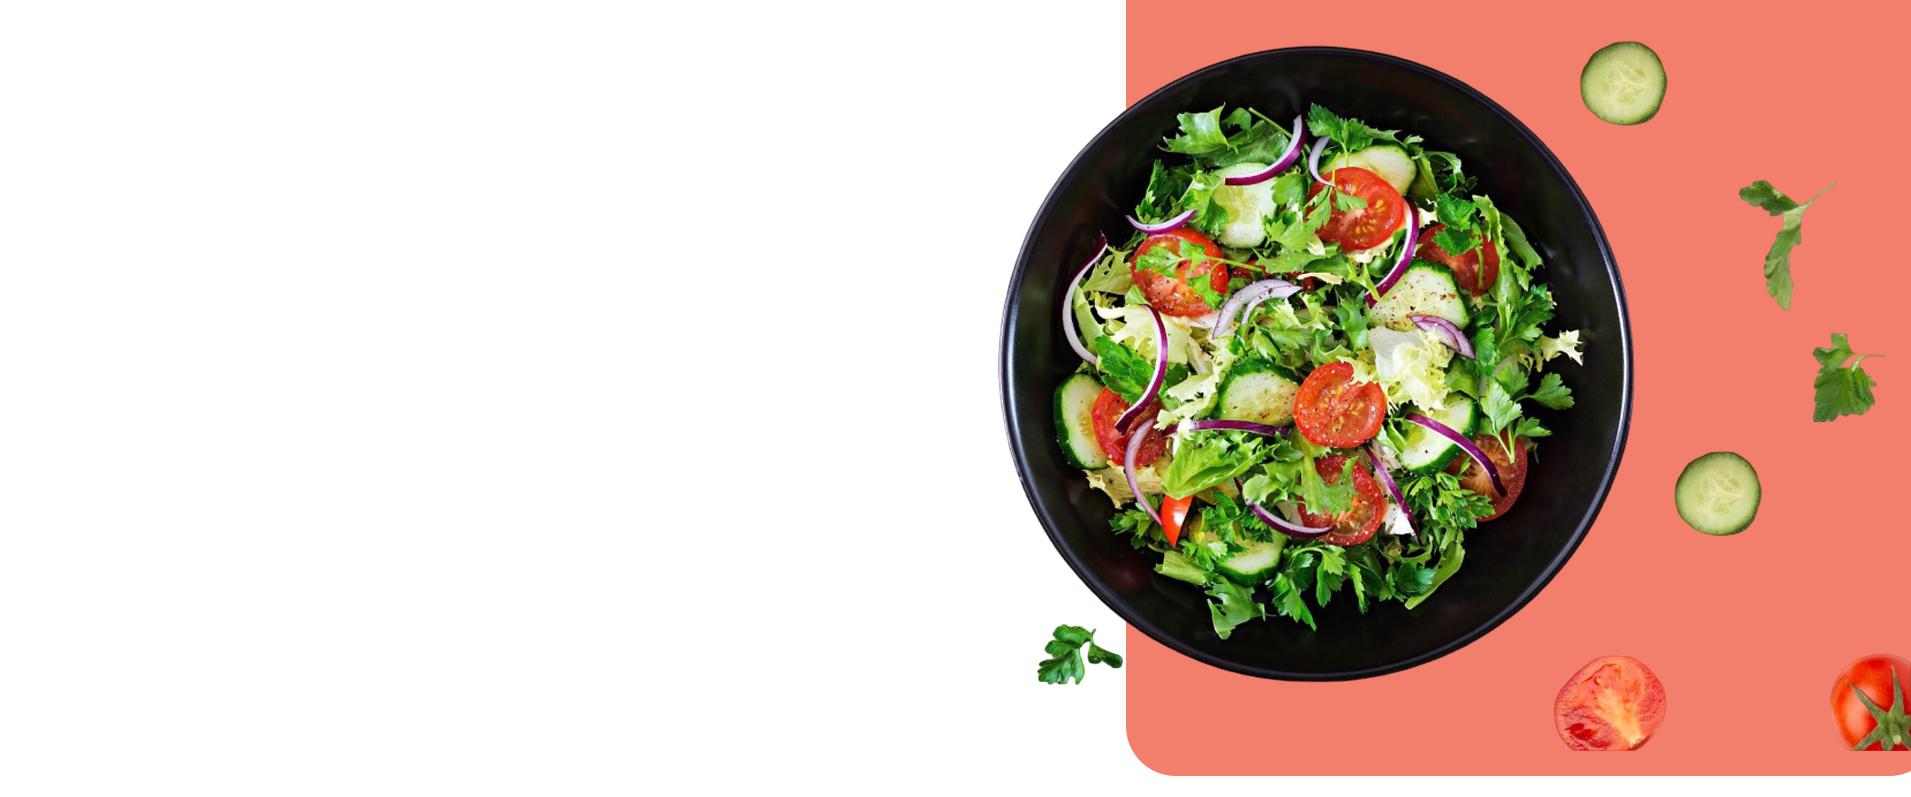
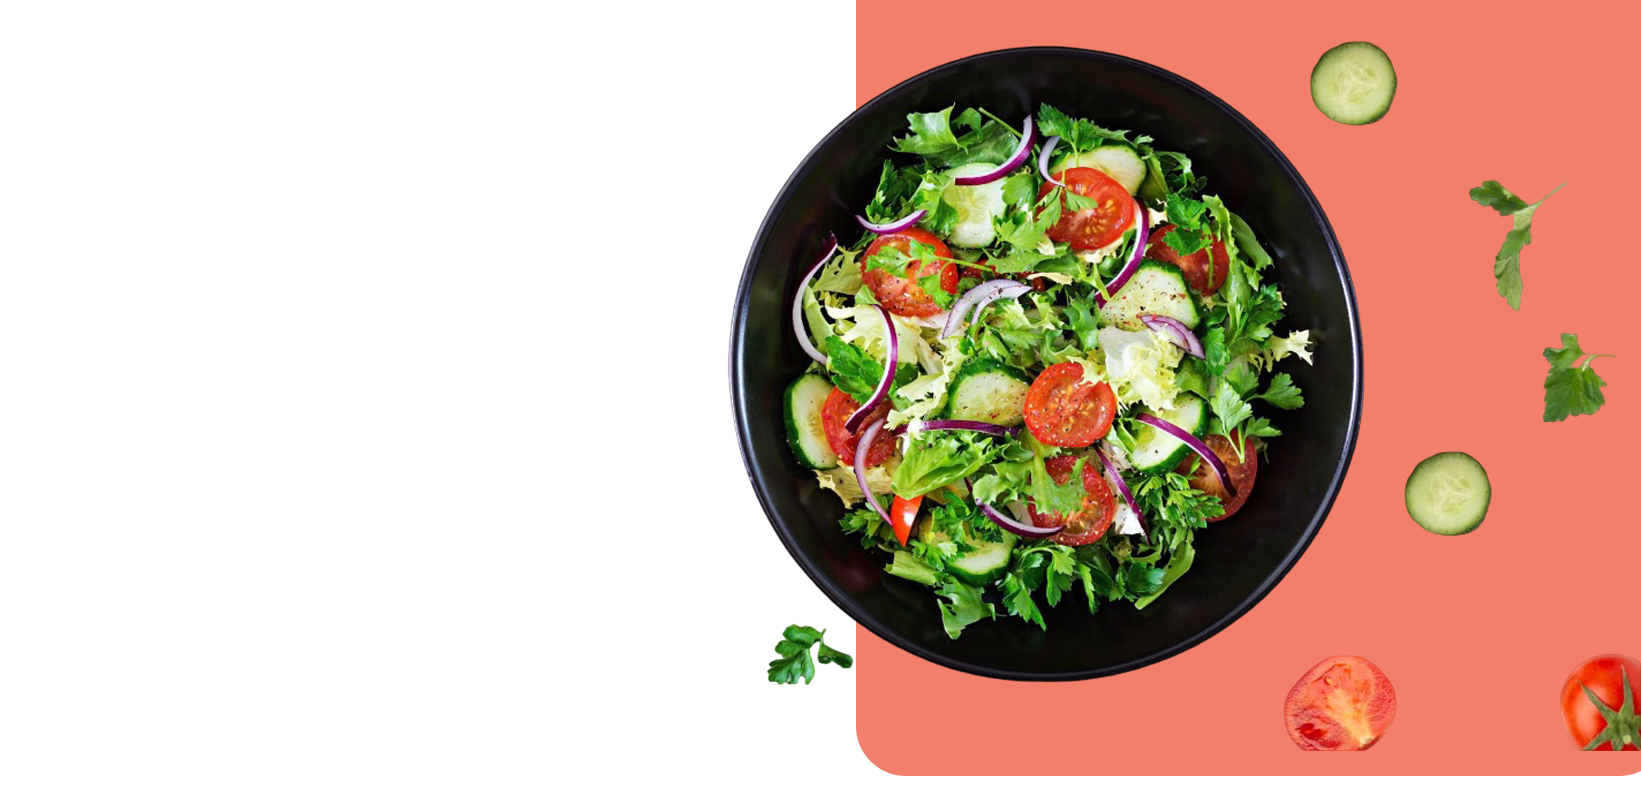
img mobile y fix page

diff --git a/src/app/page.js b/src/app/page.js
@@ -7,9 +7,9 @@ import Footer from "@/components/Footer";
 import CarrotLoader from "@/components/CarrotLoader";
 export default function Home() {
   return (
-    <div className="min-h-screen"> {/* Esto asegura que el contenedor principal ocupe todo el alto de la pantalla */}
-      <main className="flex flex-col gap-[32px] row-start-2 items-center sm:items-start">
+    <div className="min-h-screen overflow-x-hidden"> {/* Esto asegura que el contenedor principal ocupe todo el alto de la pantalla */}
         <NavbarLanding />
+        <main className="pt-16 flex flex-col gap-16 items-center">
         <PrimerSeccion />  
         <Beneficios />  
         <SobrePlanicocina />
